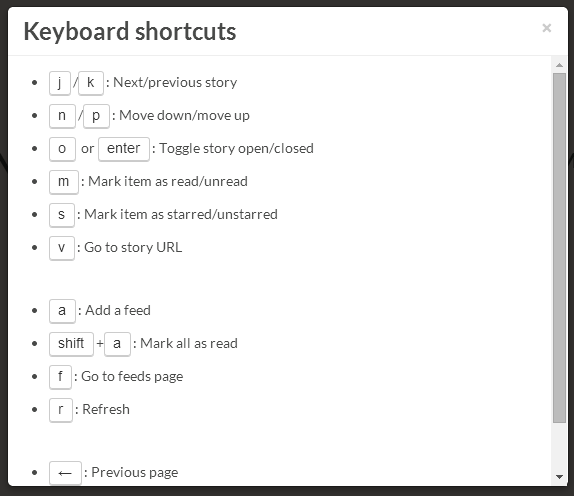
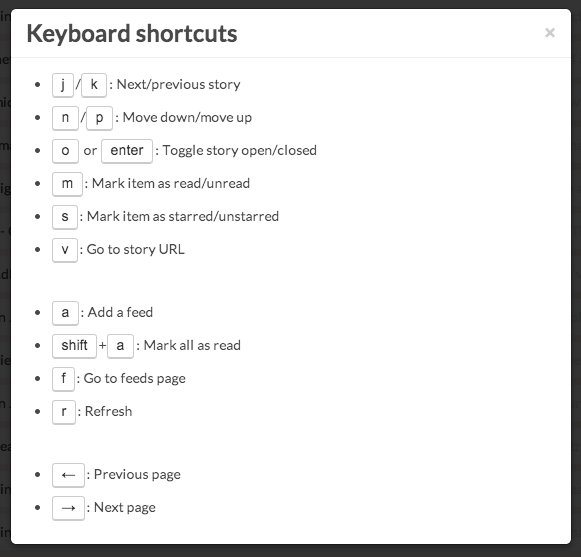
Fix CSS for keyboard shortcut modal

diff --git a/app/public/css/styles.css b/app/public/css/styles.css
@@ -550,6 +550,11 @@ kbd {
   white-space: nowrap;
 }
 
+
+#shortcuts .modal-body {
+  max-height: 500px;
+}
+
 ul.shortcut-legend li {
   margin-bottom: 10px;
 }
